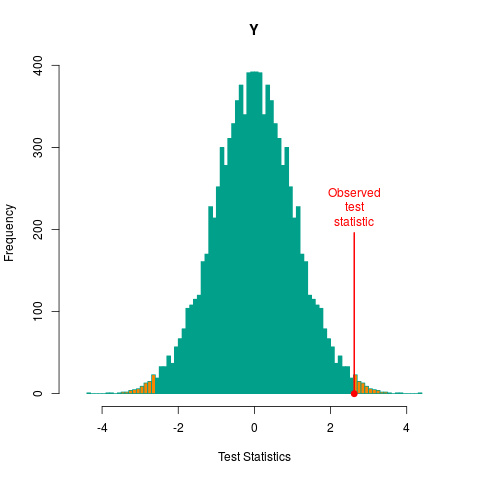
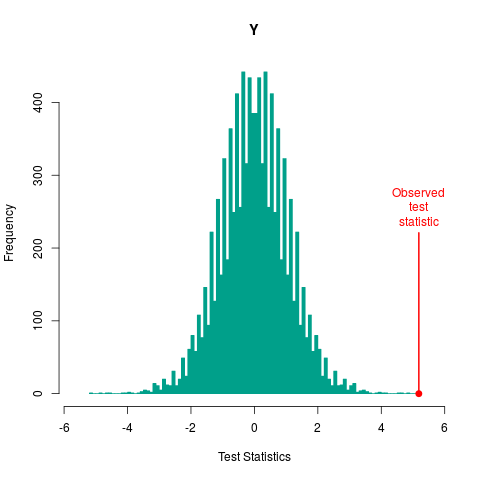
updates

diff --git a/software/index.html b/software/index.html
@@ -5,21 +5,30 @@ title: coding and software
 <div class="software">
 <a href="https://github.com/livioivil">in Github</a>
 
-<p>Please report bugs to: livio@stat.unipd.it. Peculiarities, feedback, and general queries on the use and theory of the software are also welcomed. </p>
+<p>Please report bugs to: livio.finos@unipd.it. Peculiarities, feedback and general queries on the use and theory of the software are also welcomed.</p>
 
-<p>&nbsp;</p>
-<h2>R CODES</h2>
-<p>&nbsp;</p>
-<h3>R package <a class="mceItemAnchor" title="stepadj" href="http://cran.r-project.org/web/packages/flip" target="_blank" mce_real_href="http://cran.r-project.org/web/packages/flip">flip</a></h3>
+<h3>R package <a class="mceItemAnchor" title="flip" href="http://cran.r-project.org/web/packages/flip" target="_blank" mce_real_href="http://cran.r-project.org/web/packages/flip">flip</a></h3>
 <p>A library for multivariate permutation tests.</p>
 
 <p>Bugs are always possible, I make my best to provide a new release averytime I found them. However I prefer to collect a few of them before submitting the new release to CRAN. <br></p>
 <p>The github dev version can be found here <a mce_real_href="https://github.com/livioivil/flip" href="https://github.com/livioivil/flip">https://github.com/livioivil/flip</a>. Therefore, to get the very last (unofficial) version of flip just tape</p>
-<pre style="font-family: Consolas, 'Liberation Mono', Courier, monospace; font-size: 12px; margin-top: 0px; margin-bottom: 0px; color: rgb(51, 51, 51); font-style: normal; font-variant: normal; font-weight: normal; letter-spacing: normal; line-height: 18px; orphans: auto; text-align: start; text-indent: 0px; text-transform: none; widows: auto; word-spacing: 0px; -webkit-text-stroke-width: 0px;"><div class="line" id="LC9" style="padding-left: 10px;">#install devtools, if you don't have it: install.packages("devtools")</div><div class="line" id="LC11" style="padding-left: 10px;">library(devtools)</div><div class="line" id="LC13" style="padding-left: 10px;">install_github("flip", "livioivil")</div><div class="line" id="LC15" style="padding-left: 10px;">library(flip)</div></pre>
+<pre style="font-family: Consolas, 'Liberation Mono', Courier, monospace; font-size: 12px; margin-top: 0px; margin-bottom: 0px; color: rgb(51, 51, 51); font-style: normal; font-variant: normal; font-weight: normal; letter-spacing: normal; line-height: 18px; orphans: auto; text-align: start; text-indent: 0px; text-transform: none; widows: auto; word-spacing: 0px; -webkit-text-stroke-width: 0px;"><div class="line" id="LC9" style="padding-left: 18px;">#install devtools, if you don't have it: install.packages("devtools")</div><div class="line" id="LC11" style="padding-left: 18px;">library(devtools)</div><div class="line" id="LC13" style="padding-left: 18px;">install_github("flip", "livioivil")</div><div class="line" id="LC15" style="padding-left: 10px;">library(flip)</div></pre>
 <p>&nbsp;</p>
 
-<p>&nbsp;<img title="permSpace2.png" alt="permSpace2.png" src="/livio/?image=permSpace2.png" mce_real_src="/livio/?image=permSpace2.png" height="414" width="565"></p>
-<h3>R package <a class="mceItemAnchor" title="stepadj" href="http://cran.r-project.org/web/packages/someMTP/" target="_blank" mce_real_href="http://cran.r-project.org/web/packages/someMTP/">someMTP</a></h3>
+<p>&nbsp;<img title="permSpace2.png" alt="permSpace2.png" src="/livio/?image=permSpace2.png" mce_real_src="https://github.com/livioivil/flip/blob/master/figure/unnamed-chunk-4.png" height="414" width="565"></p>
+
+<h3>R package <a class="mceItemAnchor" title="TextWiller" href="https://github.com/livioivil/TextWiller" target="_blank" mce_real_href="https://github.com/livioivil/TextWiller">TextWiller</a></h3>
+<p>A collaborative project on text mining, specially devoted to the italian language.</p>
+<p>The library is the result of the work of many people, 
+Author: (associazionerospo.org) Dario Solari, Andrea Sciandra, Marco Rinaldo, Matteo Redaelli, Livio Finos, with the contribution of Marco Rinaldo, Maddalena Branca, Federico Ferraccioli.
+</p>
+
+<p>TextWiller is on github: <a mce_real_href="https://github.com/livioivil/TextWiller" href="https://github.com/livioivil/TextWiller">https://github.com/livioivil/TextWiller</a>. Therefore, to install it just type:</p>
+<pre style="font-family: Consolas, 'Liberation Mono', Courier, monospace; font-size: 12px; margin-top: 0px; margin-bottom: 0px; color: rgb(51, 51, 51); font-style: normal; font-variant: normal; font-weight: normal; letter-spacing: normal; line-height: 18px; orphans: auto; text-align: start; text-indent: 0px; text-transform: none; widows: auto; word-spacing: 0px; -webkit-text-stroke-width: 0px;"><div class="line" id="LC9" style="padding-left: 18px;">#install devtools, if you don't have it: install.packages("devtools")</div><div class="line" id="LC11" style="padding-left: 18px;">library(devtools)</div><div class="line" id="LC13" style="padding-left: 18px;">install_github("TextWiller", "livioivil")</div><div class="line" id="LC15" style="padding-left: 18px;">library(TextWiller)</div></pre>
+<p>&nbsp;</p>
+
+
+<h3>R package <a class="mceItemAnchor" title="someMTP" href="http://cran.r-project.org/web/packages/someMTP/" target="_blank" mce_real_href="http://cran.r-project.org/web/packages/someMTP/">someMTP</a></h3>
 <p>It's a (small) collection of functions for Multiplicty Correction and Multiple Testing. Among others, you can find functions from some of my work<br></p>
 
 <p>&nbsp;</p>
@@ -82,8 +91,7 @@ title: coding and software
 <p>&nbsp;</p>
 
 <p>&nbsp;</p>
-<h2>MATLAB CODES</h2>
-<h3><a class="mceItemAnchor" title="MTHw" name="MTHw"></a><a href="http://associazionerospo.org/livio/MTHw.zip" mce_real_href="http://associazionerospo.org/livio/MTHw.zip">MTHw</a></h3>
+<h3><a class="mceItemAnchor" title="MTHw" name="MTHw"></a><a href="http://associazionerospo.org/livio/MTHw.zip" mce_real_href="http://associazionerospo.org/livio/MTHw.zip">MTHw (MATLAB)</a></h3>
 <div class="layout">
 <div class="content">
 <div class="content">
@@ -99,7 +107,7 @@ title: coding and software
 
 <p>&nbsp;</p>
 </div>
-<h3><a class="mceItemAnchor" title="NPClib" name="NPClib"></a><a href="http://www.wiley.com/legacy/wileychi/pesarin/material.html" mce_real_href="http://www.wiley.com/legacy/wileychi/pesarin/material.html">NPClib<br></a></h3>
+<h3><a class="mceItemAnchor" title="NPClib" name="NPClib"></a><a href="http://www.wiley.com/legacy/wileychi/pesarin/material.html" mce_real_href="http://www.wiley.com/legacy/wileychi/pesarin/material.html">NPClib (MATLAB)<br></a></h3>
 <div class="content">
 <p><b>DESCRIPTION</b>: NPClib is the acronyms of "NonParametric Combination library", the guiding principle underlying this software package. It is a library of MATLAB functions and it allows for a fully univariate and multivariate permutation-based inference. Most of the methods are formally stated in Pesarin, F. (2001) Multivariate Permutation Test with Application in Biostatistics. Wiley, New York. Other can be found in <small>Pesarin and Salmaso (2010)</small> Permutation Tests for Complex Data -<b> </b><small>Theory, Applications and Software</small>, <small>Wiley Series in Probability and Statistics</small><br></p>
 </div></div></div><input id="gwProxy" type="hidden"><!--Session data--><input id="jsProxy" onclick="jsCall();" type="hidden"> 

diff --git a/more/index.html b/more/index.html
@@ -11,4 +11,16 @@ title: all the r(b)est
   </ul>
   
 </div>
-<p><font size="2">- D’ora in avanti sarò io a descrivere le città, - aveva detto il Kan - Tu nei tuoi viaggi verificherai se esistono.</font></p>     <p><font size="2">Ma le città visitate da Marco Polo erano sempre diverse da quelle pensate dall’imperatore. <br>- Eppure io ho costruito nella mia mente un modello di città da cui dedurre tutte le città possibili - disse Kublai - Esso racchiude tutto quello che risponde alla norma. Siccome le città che esistono si allontanano in vario grado dalla norma, mi basta prevedere le eccezioni alla norma e calcolarne le combinazioni più probabili. </font></p>  <p><font size="2">- Anch’io ho pensato ad un modello di città da cui dedurre tutte le altre - rispose Marco - E’ una città fatta solo d’eccezioni, preclusioni, contraddizioni, incongruenze, controsensi. Se una città così è quanto di più improbabile, diminuendo il numero degli elementi abnormi si accrescono le probabilità che la città ci sia veramente. Dunque basta che io sottragga eccezzioni al mio modello, e in qualsiasi ordine proceda arriverò a trovarmi davanti ad una delle città che, pur sempre in via eccezzionale, esistono. Ma non posso spingermi oltre un certo limite: otterrei delle città troppo verosimili per essere vere.<br><br><br>Le città invisibili - Italo Calvino</font></p>  <p><i><font size="2">... a proposito di Neyman-Pearson</font></i></p>  <p>&nbsp;</p>  <p>&nbsp;</p>  <p>&nbsp;</p>  <p><b><font size="3"><i>Where is the Life we have lost in living?</i></font></b></p>  <p><b><font size="3"><i>Where is the wisdom we have lost in knowledge?<br></i></font></b></p> <div class="content"><p><b><font size="3"><i>Where is the knowledge we have lost in information?</i></font></b></p>  <p><b><font size="3"><i>&nbsp;</i></font></b></p>  <p><b><font size="3">T.S. Eliot, "The Rock", Faber &amp; Faber 1934.&nbsp; </font></b></p>  <p>&nbsp;</p>   <p>&nbsp;</p>  <p align="right"><font size="3">I don't know the first two answers, but I can guess the third... </font></p>  <p align="right"><font size="3">is it perhaps, in the error term of the model?</font></p></div>
+<p><i>... a proposito di Neyman-Pearson</i></p>
+<p>- D’ora in avanti sarò io a descrivere le città, - aveva detto il Kan - Tu nei tuoi viaggi verificherai se esistono.</p>     
+<p>Ma le città visitate da Marco Polo erano sempre diverse da quelle pensate dall’imperatore. <br>- Eppure io ho costruito nella mia mente un modello di città da cui dedurre tutte le città possibili - disse Kublai - Esso racchiude tutto quello che risponde alla norma. Siccome le città che esistono si allontanano in vario grado dalla norma, mi basta prevedere le eccezioni alla norma e calcolarne le combinazioni più probabili. </p>  
+<p>- Anch’io ho pensato ad un modello di città da cui dedurre tutte le altre - rispose Marco - E’ una città fatta solo d’eccezioni, preclusioni, contraddizioni, incongruenze, controsensi. Se una città così è quanto di più improbabile, diminuendo il numero degli elementi abnormi si accrescono le probabilità che la città ci sia veramente. Dunque basta che io sottragga eccezzioni al mio modello, e in qualsiasi ordine proceda arriverò a trovarmi davanti ad una delle città che, pur sempre in via eccezzionale, esistono. Ma non posso spingermi oltre un certo limite: otterrei delle città troppo verosimili per essere vere.<br><br><br>Le città invisibili - Italo Calvino</p>  
+<p>&nbsp;</p>  <p>&nbsp;</p>  
+<p>&nbsp;</p>  
+<p><b><i>Where is the Life we have lost in living?</i></b></p>  
+<p><b><i>Where is the wisdom we have lost in knowledge?<br></i></b></p> <div class="content">
+<p><b><i>Where is the knowledge we have lost in information?</i></b></p>  
+<p><b><i>&nbsp;</i></b></p>  
+<p><b>T.S. Eliot, "The Rock", Faber &amp; Faber 1934.&nbsp; </b></p>  
+<p>&nbsp;</p>   <p>&nbsp;</p>  <p>I don't know the first two answers, but I can guess the third... is it perhaps, in the error term of the model?</p></div>
+

diff --git a/students/index.html b/students/index.html
@@ -6,6 +6,8 @@ title: tesi proposte
 <ul>
 <li><a href="http://it.didattica.unipd.it/offerta/docente/750F8EE82FAC8ACA50EE69F79F75D23E">My teaching at unipd.it</a>
 </li>
+<li> Appunti del corso Classificazione e Analisi di Dati Multidimensionali (parte di Statistica Multivariata): <a href="https://dl.dropboxusercontent.com/u/2487724/CADM/DispensaCADM.pdf" >https://dl.dropboxusercontent.com/u/2487724/CADM/DispensaCADM.pdf</a></li>
+<li> Modello Lineare Semplice e Multiplo. Inferenza tra permutazioni e distribuzione normale. <a href="./slides.html" >slides</a></li>
 <li>  <a href="./tesi">Tesi (in italian)</a>
 </li>
 </ul>
